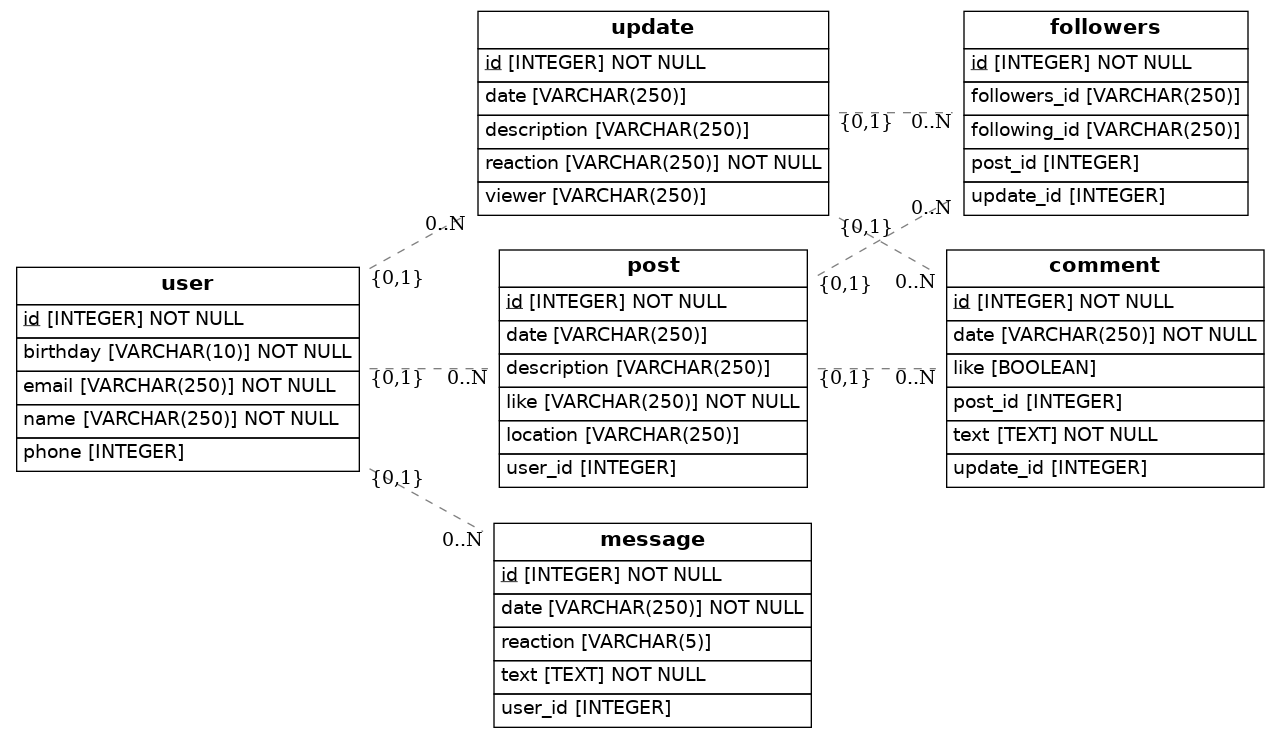
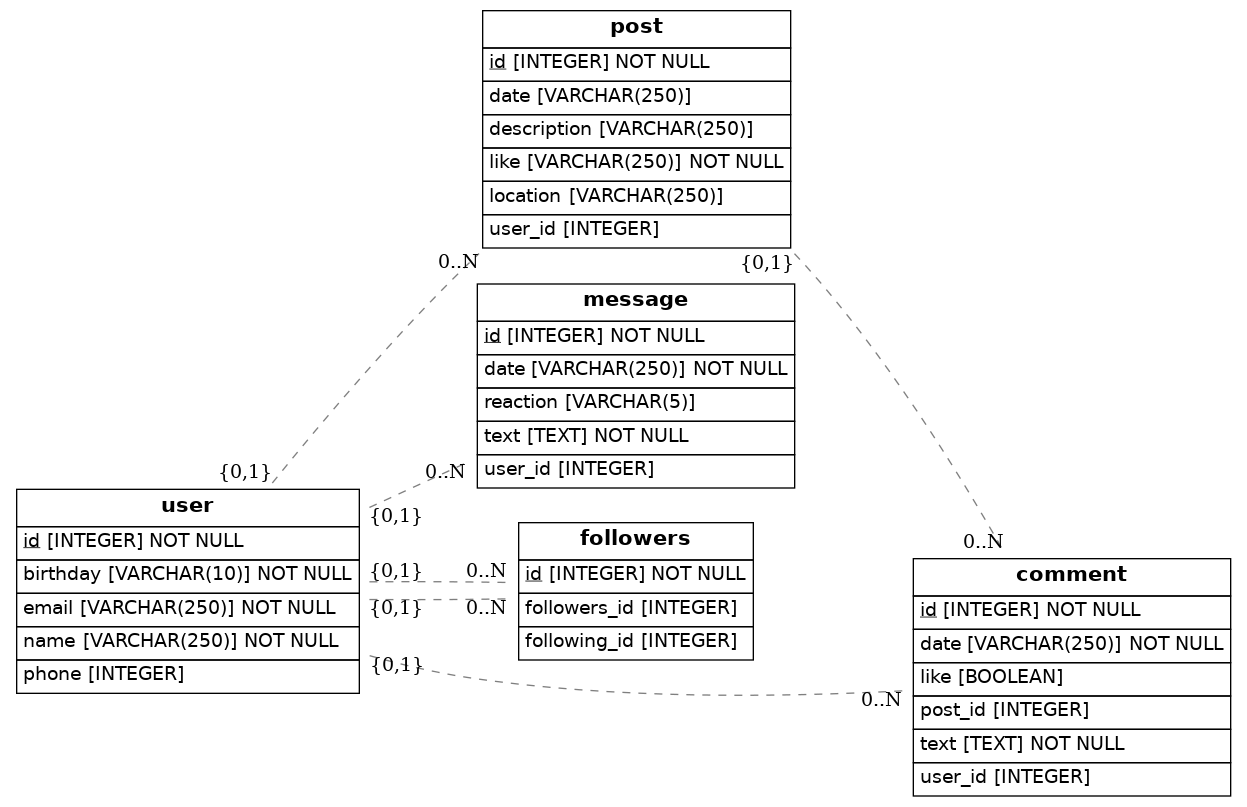
feat: la ultima version

diff --git a/src/models.py b/src/models.py
@@ -29,17 +29,6 @@ class Post(Base):
     pictures = relationship("Picture")
     comments = relationship("Comment")
 
-class TimeLine(Base):
-    __tablename__ = 'update'
-    id = Column(Integer, primary_key=True)
-    date = Column(String(250))
-    viewer = Column(String(250))
-    reaction = Column(String(250), nullable=False)
-    description = Column(String(250), ForeignKey('user.id'))
-    pictures = relationship("Picture", backref="update")
-    comments = relationship("Comment")
-
-
 class Message(Base):
     __tablename__ = 'message'
     id = Column(Integer, primary_key=True)
@@ -51,10 +40,11 @@ class Message(Base):
 class Followers(Base):
     __tablename__ = 'followers'
     id = Column(Integer, primary_key=True)
-    followers_id = Column(String(250))
-    following_id = Column(String(250))
-    post_id = Column(Integer, ForeignKey('post.id'))
-    update_id = Column(Integer, ForeignKey('update.id'))
+    followers_id = Column(Integer,ForeignKey("user.id"))
+    following_id = Column(Integer,ForeignKey("user.id"))
+    user_1 = relationship("User")
+    
+
 
 class Comment(Base):
     __tablename__ = 'comment'
@@ -63,7 +53,7 @@ class Comment(Base):
     like = Column(Boolean)
     date = Column(String(250), nullable=False)
     post_id = Column(Integer, ForeignKey('post.id'))
-    update_id = Column(Integer, ForeignKey('update.id'))
+    user_id = Column(Integer, ForeignKey('user.id'))
 
 
     def to_dict(self):
